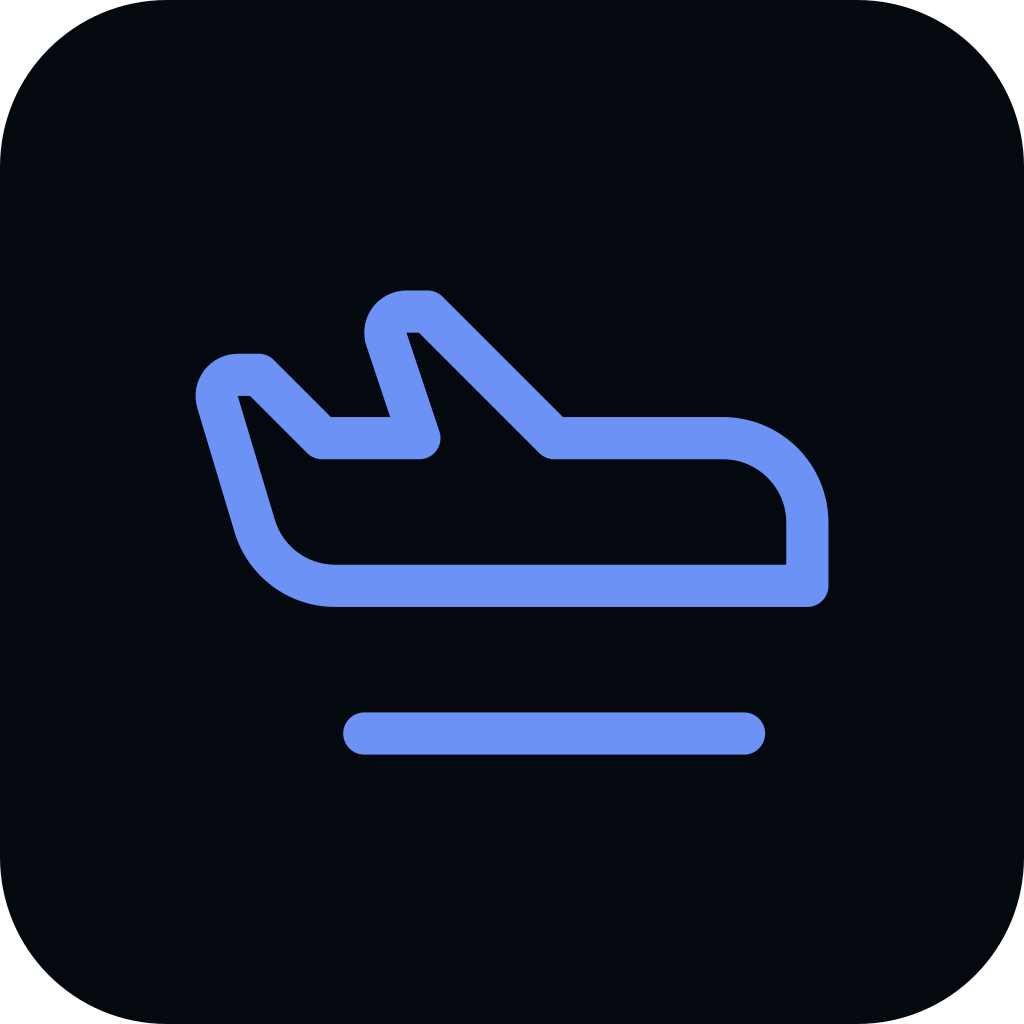
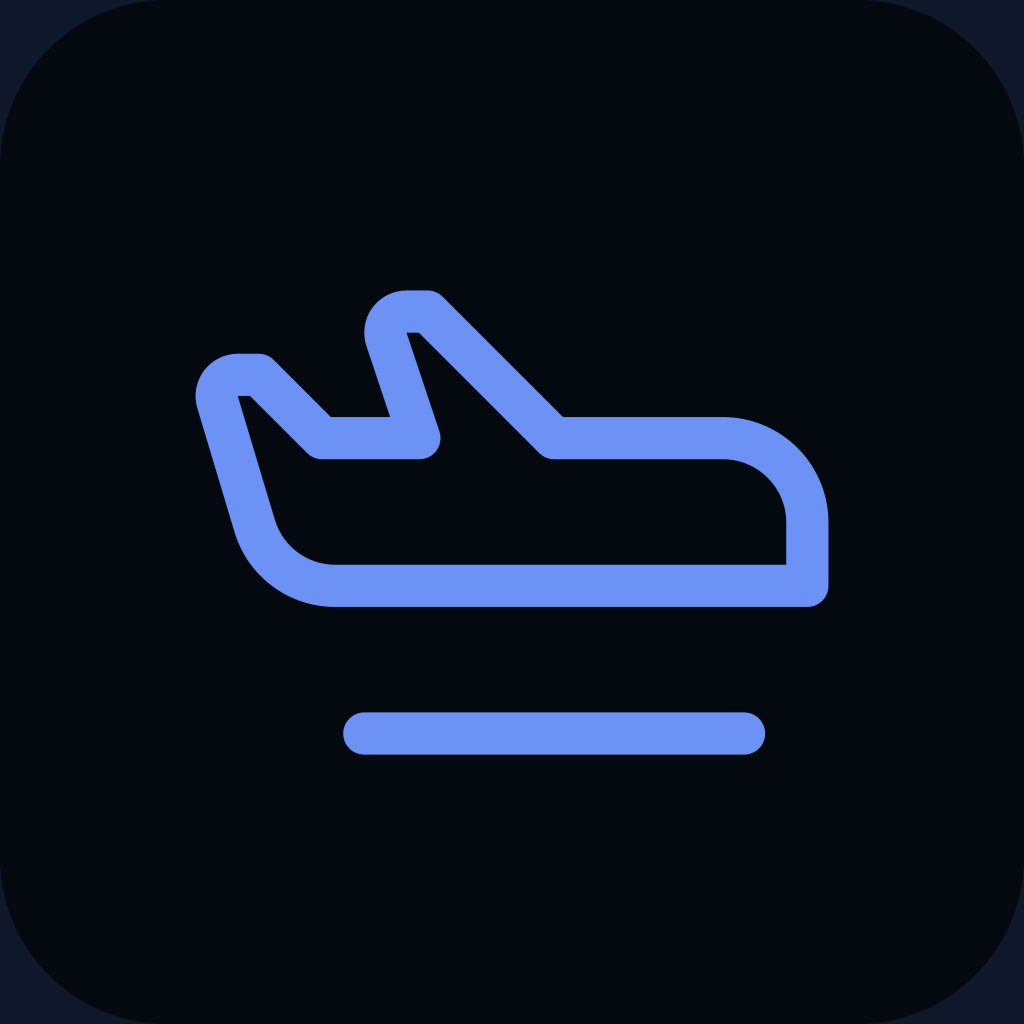
Update app configuration and enhance pairing screen
- Changed app name from "Codex Phone" to "Codex" in `app.json` and `Info.plist`.
- Added `eas.json` for build configuration.
- Removed unused Babel plugin from `babel.config.js`.
- Improved UI of the pairing screen by replacing `View` with `SafeAreaView` and adjusting layout.
- Updated text for clarity and consistency in the pairing instructions.
- Added a new menu bar icon for the macOS gateway application.

diff --git a/app/app/pair.tsx b/app/app/pair.tsx
@@ -3,6 +3,7 @@ import { Pressable, Text, View } from "react-native";
 import { CameraView, BarcodeScanningResult, useCameraPermissions } from "expo-camera";
 import { router } from "expo-router";
 import { MotiView } from "moti";
+import { SafeAreaView } from "react-native-safe-area-context";
 import { claimPairing, parsePairingUrl } from "@/lib/api";
 import { getOrCreateDeviceIdentity } from "@/lib/device";
 
@@ -39,22 +40,22 @@ export default function PairScreen() {
   };
 
   return (
-    <View className="flex-1 bg-background px-5 pt-12">
+    <SafeAreaView className="flex-1 bg-background px-5 py-3" edges={["top", "bottom", "left", "right"]}>
       <MotiView
         from={{ opacity: 0, translateY: 12 }}
         animate={{ opacity: 1, translateY: 0 }}
         transition={{ type: "timing", duration: 260 }}
-        className="rounded-3xl border border-border/50 bg-card p-5"
+        className="w-full flex-1"
       >
-        <Text className="text-3xl font-black text-card-foreground">Codex Phone</Text>
+        <Text className="text-3xl font-semibold text-foreground">Codex Phone</Text>
         <Text className="mt-2 text-base leading-6 text-muted-foreground">
-          Scan the pairing QR from your laptop at <Text className="font-bold">http://127.0.0.1:8787/pair</Text>.
+          Pair once, then your phone connects to your mac threads instantly.
         </Text>
 
         {permission?.granted && scanning ? (
-          <View className="mt-4 overflow-hidden rounded-2xl border border-border/50">
+          <View className="mt-5 overflow-hidden rounded-2xl border border-border/50 bg-card">
             <CameraView
-              style={{ width: "100%", height: 360 }}
+              style={{ width: "100%", height: 420 }}
               onBarcodeScanned={onScan}
               barcodeScannerSettings={{
                 barcodeTypes: ["qr"],
@@ -62,9 +63,9 @@ export default function PairScreen() {
             />
           </View>
         ) : (
-          <View className="mt-4 rounded-2xl bg-muted p-4">
+          <View className="mt-5 rounded-2xl bg-muted p-4">
             <Text className="text-sm text-muted-foreground">
-              This app uses one-time pairing. Your Codex server stays local on the laptop and is only reachable through your own Tailscale tunnel.
+              This app uses one-time pairing. Your Codex server stays local on your Mac and is only reachable via your own secure Tailscale tunnel.
             </Text>
           </View>
         )}
@@ -75,7 +76,13 @@ export default function PairScreen() {
           </View>
         ) : null}
 
-        <View className="mt-5 flex-row gap-3">
+        <View className="mt-auto pb-2">
+          <Text className="text-center text-sm text-muted-foreground">
+            Open this on your mac:
+          </Text>
+          <Text className="mt-1 text-center text-base font-semibold text-foreground">http://127.0.0.1:8787/pair</Text>
+
+          <View className="mt-4 flex-row gap-3">
           {!permission?.granted ? (
             <Pressable
               onPress={requestPermission}
@@ -94,8 +101,9 @@ export default function PairScreen() {
               </Text>
             </Pressable>
           )}
+          </View>
         </View>
       </MotiView>
-    </View>
+    </SafeAreaView>
   );
 }

diff --git a/app/babel.config.js b/app/babel.config.js
@@ -3,7 +3,6 @@ module.exports = function (api) {
   return {
     presets: ["babel-preset-expo", "nativewind/babel"],
     plugins: [
-      "expo-router/babel",
       "react-native-reanimated/plugin"
     ]
   };
